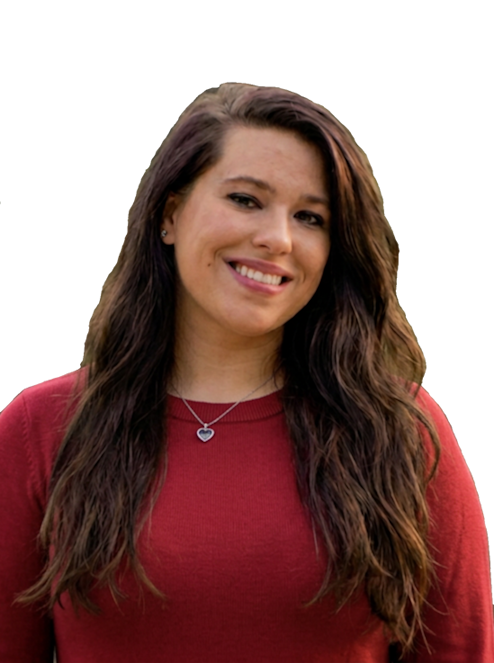
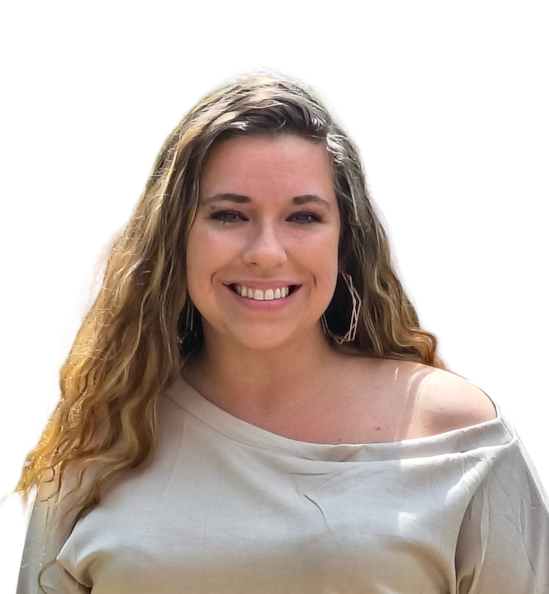
updated footer, social links, pictures

diff --git a/src/content/pages/group-coaching.html b/src/content/pages/group-coaching.html
@@ -125,9 +125,9 @@ eleventyComputed:
     <section id="gc-hero">
         <div class="cs-container">
             <picture class="cs-picture">
-                <source media="(max-width: 600px)" srcset="/assets/images/family-party.jpg">
-                <source media="(min-width: 601px)" srcset="/assets/images/family-party.jpg">
-                <img loading="eager" decoding="async" src="/assets/images/family-party.jpg" alt="A family celebrating together, representing the shared support families find in group coaching." width="1920" height="1423">
+                <source media="(max-width: 600px)" srcset="/assets/images/family2.png">
+                <source media="(min-width: 601px)" srcset="/assets/images/family2.png">
+                <img loading="eager" decoding="async" src="/assets/images/family2.png" alt="A family celebrating together, representing the shared support families find in group coaching." width="1920" height="1423">
                 <!--Image by <a href="https://pixabay.com/users/davm2598-10060465/?utm_source=link-attribution&utm_medium=referral&utm_campaign=image&utm_content=5134828">DAVM2598</a> from <a href="https://pixabay.com//?utm_source=link-attribution&utm_medium=referral&utm_campaign=image&utm_content=5134828">Pixabay</a>-->
             </picture>
             <div class="cs-content">

diff --git a/src/_includes/sections/footer.html b/src/_includes/sections/footer.html
@@ -24,10 +24,10 @@
             </div>
             <div class="cs-social">
                 <!--Get more icons at flaticon.com and download the svg-->
-                <a href="{{ client.socials.facebook }}" class="cs-social-link" aria-label="visit facebook">
+                <a href="{{ client.socials.facebook }}" class="cs-social-link" aria-label="visit facebook" target="_blank" rel="noopener noreferrer">
                     <img class="cs-social-icon" src="https://csimg.nyc3.cdn.digitaloceanspaces.com/Images/Icons/face-w.svg" alt="icon" width="12" height="12" loading="lazy" decoding="async" aria-hidden="true">
                 </a>
-                <a href="{{ client.socials.circle }}" class="cs-social-link" aria-label="visit circle">
+                <a href="{{ client.socials.circle }}" class="cs-social-link" aria-label="visit circle" target="_blank" rel="noopener noreferrer">
                     <img class="cs-social-icon" src="/assets/svgs/Circle.svg" alt="icon" width="12" height="12" loading="lazy" decoding="async" aria-hidden="true">
                 </a>
             </div>

diff --git a/src/_data/client.js b/src/_data/client.js
@@ -14,7 +14,7 @@ module.exports = {
     },
     socials: {
         facebook: "https://www.facebook.com/profile.php?id=61591234964206",
-        circle: "",
+        circle: "https://redeemed-arrow-behavior-consulting.circle.so/",
     },
     //! Make sure you include the file protocol (e.g. https://) and that NO TRAILING SLASH is included
     domain: "https://www.redeemedarrow.com",
